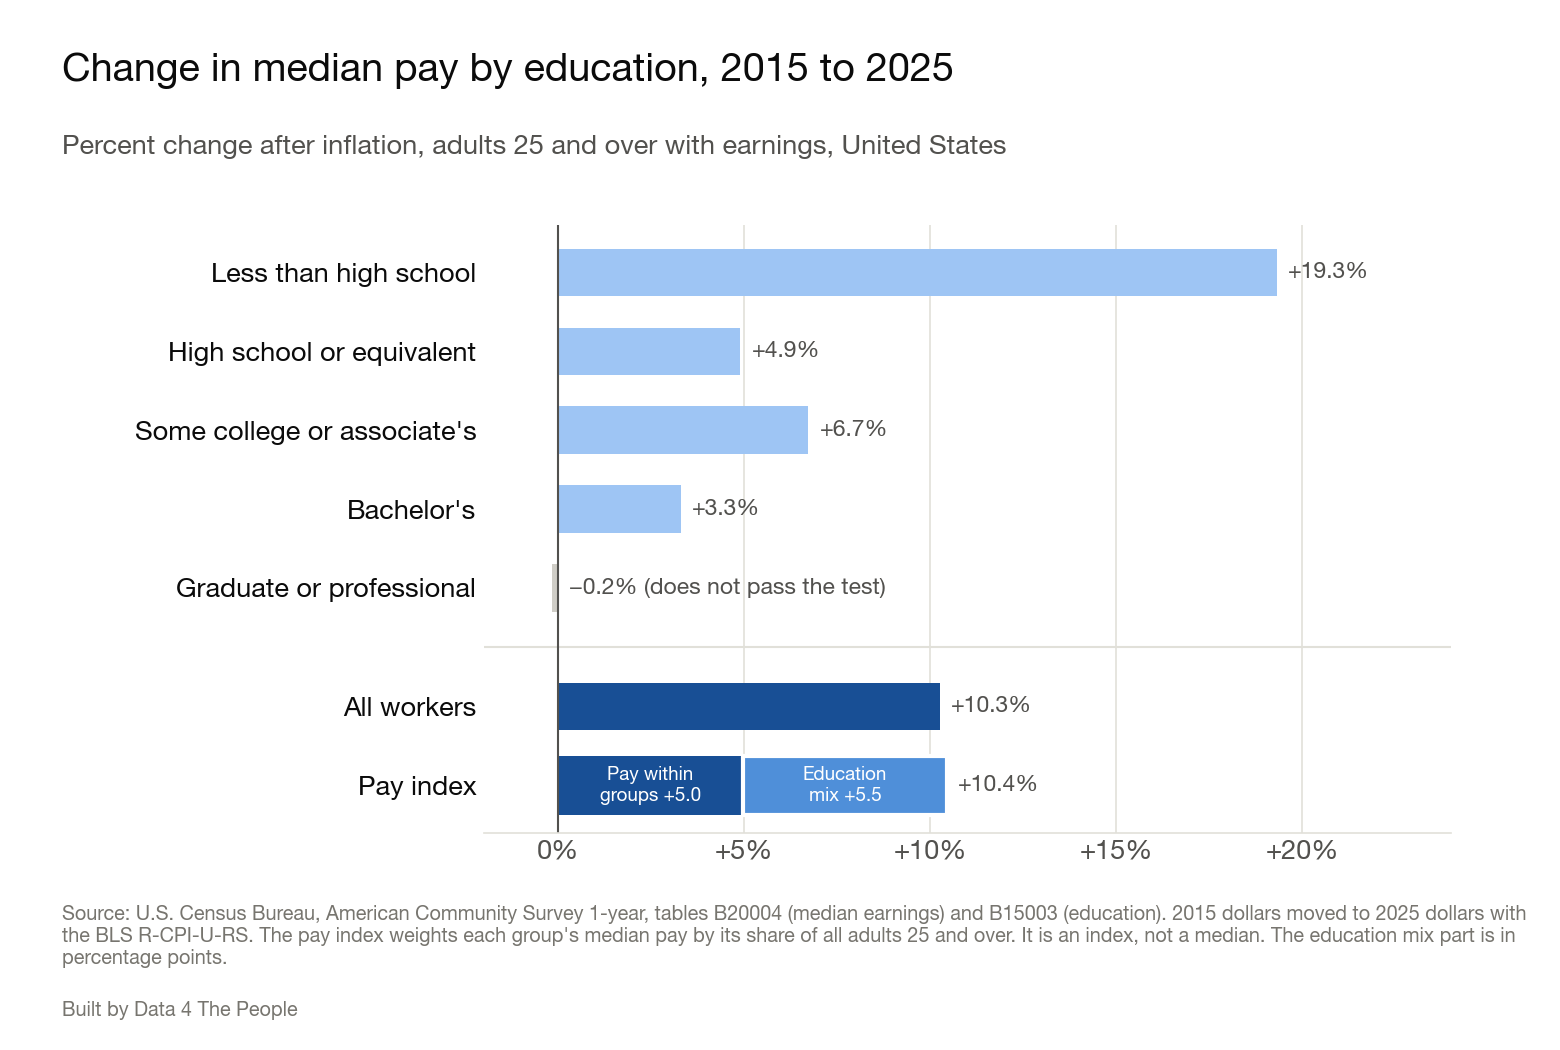
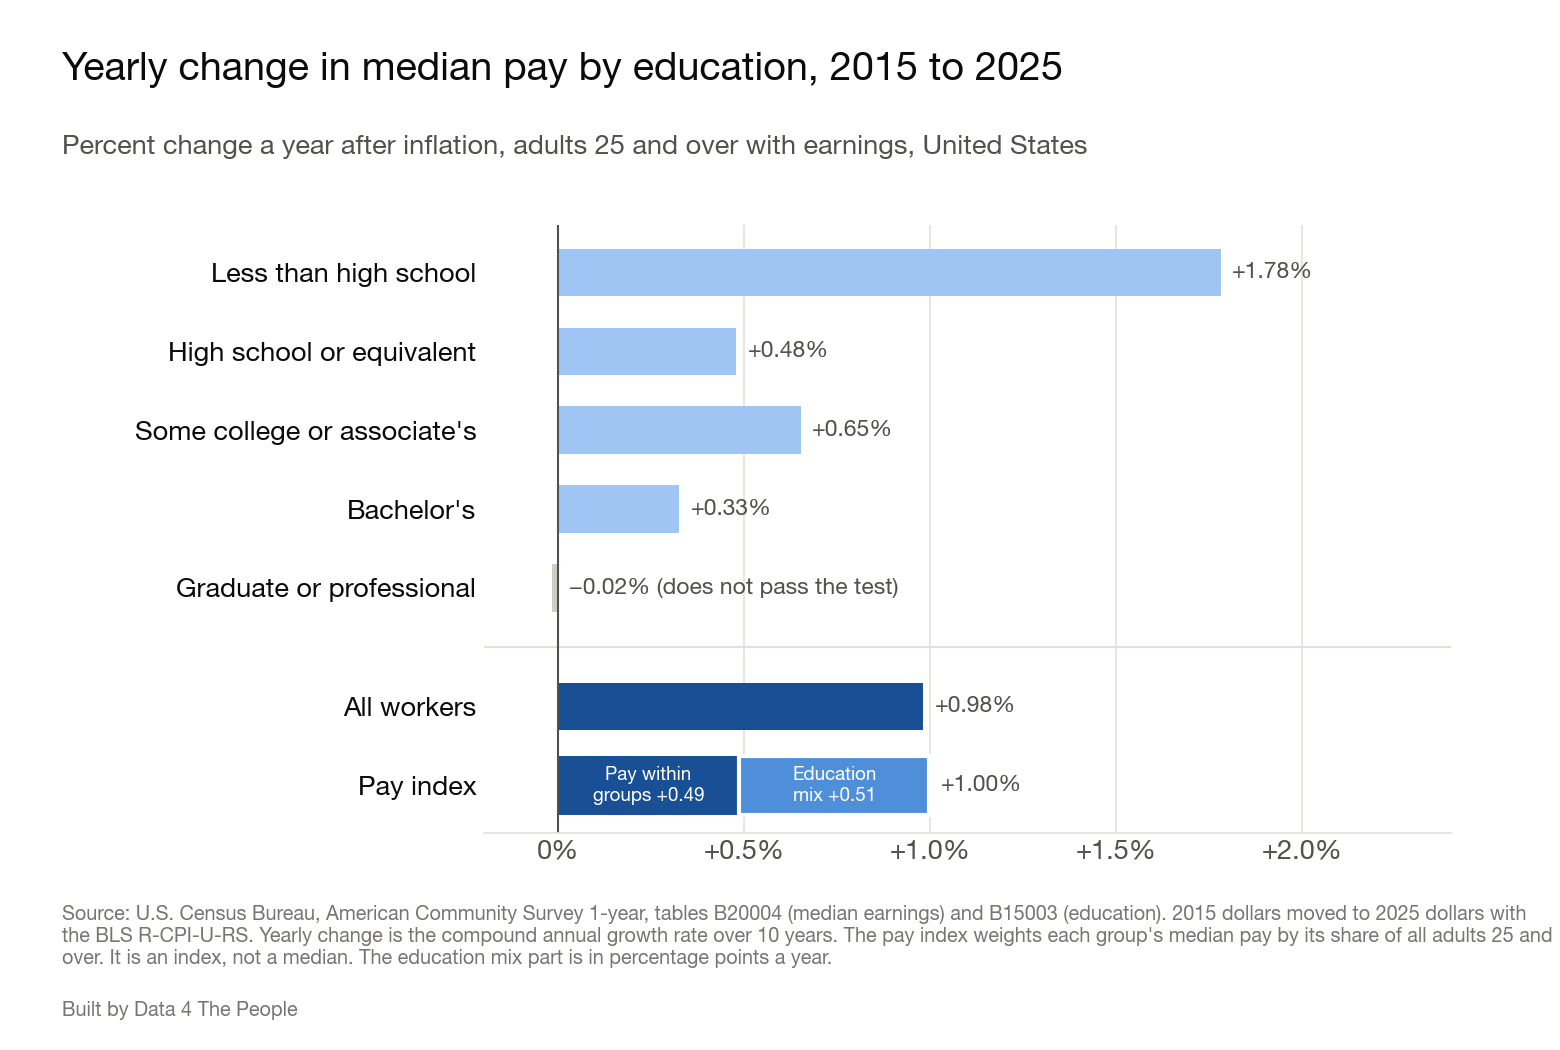
educational-attainment: national pay chart and summary in yearly growth rates

diff --git a/scripts/post_charts.py b/scripts/post_charts.py
@@ -118,28 +118,36 @@ def pay_chart(data, first, last):
     e2 = data["usPay"][last]
     w1, w2 = data["us"][first], data["us"][last]
 
+    n_yrs = int(last) - int(first)
+
+    def cagr(a, b):
+        return 100 * ((b / a) ** (1 / n_yrs) - 1)
+
     def pct(i):
         a, b, ma, mb = e1[2 * i], e2[2 * i], e1[2 * i + 1], e2[2 * i + 1]
-        return 100 * (b / a - 1), abs(b - a) / np.sqrt((ma / Z90) ** 2 + (mb / Z90) ** 2) > Z90
+        return cagr(a, b), abs(b - a) / np.sqrt((ma / Z90) ** 2 + (mb / Z90) ** 2) > Z90
 
     def index(e, w):
         return sum(w[2 + 2 * i] / w[0] * e[2 + 2 * i] for i in range(len(GROUPS)))
 
+    # Same split as the map: own-mix yearly change = held-mix yearly change + mix part (points).
     h1, h2, o2 = index(e1, w1), index(e2, w1), index(e2, w2)
-    within, mix = 100 * (h2 / h1 - 1), 100 * (o2 - h2) / h1
+    within, total = cagr(h1, h2), cagr(h1, o2)
+    mix = total - within
     groups = [(GROUP_NAMES[g], *pct(i + 1)) for i, g in enumerate(GROUPS)]
     allw = pct(0)
-    OUT.extend(["", f"## Nation, pay {first} to {last}, total change after inflation ({last} dollars)", "",
-                f"Prices up {100 * (f - 1):.1f}%.", "", "| measure | change (%) | passes |", "|---|---|---|"])
+    OUT.extend(["", f"## Nation, pay {first} to {last}, yearly change after inflation ({last} dollars)", "",
+                f"Prices up {100 * (f - 1):.1f}%. Yearly change is the compound annual growth rate over {n_yrs} years.", "",
+                "| measure | yearly change (%) | passes |", "|---|---|---|"])
     OUT.extend(f"| Median, {n} | {v:+.2f} | {s} |" for n, v, s in groups)
     OUT.extend([f"| Median, all workers | {allw[0]:+.2f} | {allw[1]} |",
-                f"| Pay index, total ({first} index ${h1:,.0f}, {last} ${o2:,.0f}) | {100 * (o2 / h1 - 1):+.2f} | |",
+                f"| Pay index, total ({first} index ${h1:,.0f}, {last} ${o2:,.0f}) | {total:+.2f} | |",
                 f"| From pay within education groups ({last} index with {first} mix ${h2:,.0f}) | {within:+.2f} | |",
-                f"| From the education mix (points) | {mix:+.2f} | |"])
+                f"| From the education mix (points a year) | {mix:+.2f} | |"])
 
     h = 7.0
-    fig, ax = frame(f"Change in median pay by education, {first} to {last}",
-                    "Percent change after inflation, adults 25 and over with earnings, United States", h)
+    fig, ax = frame(f"Yearly change in median pay by education, {first} to {last}",
+                    "Percent change a year after inflation, adults 25 and over with earnings, United States", h)
     ax.set_position([0.31, 1.45 / h, 0.62, 1 - 2.95 / h])
     labels = [n for n, _, _ in groups] + ["All workers", "Pay index"]
     n = len(labels)
@@ -147,29 +155,29 @@ def pay_chart(data, first, last):
     ys = [y + (0 if i < len(groups) else -0.5) for i, y in enumerate(ys)]
 
     def lab(y, x, text):
-        ax.text(x + 0.3 if x >= 0 else 0.3, y, text, ha="left", va="center", fontsize=11, color=INK2)
+        ax.text(x + 0.03 if x >= 0 else 0.03, y, text, ha="left", va="center", fontsize=11, color=INK2)
 
     for (name, v, s), y in zip(groups, ys):
         ax.barh(y, v, height=0.6, color=C2016 if s else NOPASS, zorder=2)
-        lab(y, v, f"{v:+.1f}%".replace("-", "−") + ("" if s else " (does not pass the test)"))
+        lab(y, v, f"{v:+.2f}%".replace("-", "\u2212") + ("" if s else " (does not pass the test)"))
     ax.barh(ys[-2], allw[0], height=0.6, color=C2025, zorder=2)
-    lab(ys[-2], allw[0], f"{allw[0]:+.1f}%")
+    lab(ys[-2], allw[0], f"{allw[0]:+.2f}%")
     ax.barh(ys[-1], within, height=0.75, color=C2025, zorder=2)
     ax.barh(ys[-1], mix, left=within, height=0.75, color="#4f8fd9", zorder=2, edgecolor="white", linewidth=2)
-    lab(ys[-1], within + mix, f"{within + mix:+.1f}%")
-    ax.text(within / 2, ys[-1], f"Pay within\ngroups {within:+.1f}", ha="center", va="center", fontsize=9, color="white")
-    ax.text(within + mix / 2, ys[-1], f"Education\nmix {mix:+.1f}", ha="center", va="center", fontsize=9, color="white")
+    lab(ys[-1], total, f"{total:+.2f}%")
+    ax.text(within / 2, ys[-1], f"Pay within\ngroups {within:+.2f}", ha="center", va="center", fontsize=9, color="white")
+    ax.text(within + mix / 2, ys[-1], f"Education\nmix {mix:+.2f}", ha="center", va="center", fontsize=9, color="white")
     ax.axhline((ys[len(groups) - 1] + ys[-2]) / 2, color=GRID, lw=1)
     ax.axvline(0, color=INK2, lw=1)
     ax.set_yticks(ys)
     ax.set_yticklabels(labels)
-    ax.set_xlim(-2, 24)
+    ax.set_xlim(-0.2, 2.4)
     ax.set_ylim(min(ys) - 0.6, max(ys) + 0.6)
-    ax.xaxis.set_major_formatter(matplotlib.ticker.FuncFormatter(lambda v, _: f"{v:+.0f}%".replace("-", "−") if v else "0%"))
+    ax.xaxis.set_major_formatter(matplotlib.ticker.FuncFormatter(lambda v, _: f"{v:+.1f}%".replace("-", "\u2212") if v else "0%"))
     footer(fig, f"Source: U.S. Census Bureau, American Community Survey 1-year, tables B20004 (median earnings) and B15003 "
-           f"(education). {first} dollars moved to {last} dollars with the BLS R-CPI-U-RS. The pay index weights each "
-           f"group's median pay by its share of all adults 25 and over. It is an index, not a median. The education mix "
-           f"part is in percentage points.", h)
+           f"(education). {first} dollars moved to {last} dollars with the BLS R-CPI-U-RS. Yearly change is the compound "
+           f"annual growth rate over {n_yrs} years. The pay index weights each group's median pay by its share of all "
+           f"adults 25 and over. It is an index, not a median. The education mix part is in percentage points a year.", h)
     fig.savefig(IMG / "02-pay-mix-nation.png", facecolor="white")
     plt.close(fig)
 

diff --git a/posts/educational-attainment/POST.md b/posts/educational-attainment/POST.md
@@ -58,11 +58,11 @@ I offer this illustration to help understand the problem with pay analysis over 
 
 And so, I added this to the visualization. Just switch the topic from Education to Pay and you can see how much of the increase in pay comes from higher pay within each education group and how much comes from the change in education mix. The following chart shows the summary of this pay and mix analysis for the nation.
 
-![Bar chart of the change in median pay after inflation from 2015 to 2025 for U.S. workers 25 and over. Less than high school rose 19.3%, high school or equivalent 4.9%, some college or associate's 6.7%, bachelor's 3.3%, and graduate or professional fell 0.2%, a change too small to pass the test. All workers rose 10.3%. The pay index rose 10.4%: 5.0 points from pay within education groups and 5.5 points from the education mix.](images/02-pay-mix-nation.png)
-*Pay is median earnings of people 25 and over who had earnings, in 2025 dollars. The pay index weights each group's median pay by that group's share of all adults 25 and over.*
+![Bar chart of the yearly change in median pay after inflation from 2015 to 2025 for U.S. workers 25 and over. Less than high school rose 1.78% a year, high school or equivalent 0.48%, some college or associate's 0.65%, bachelor's 0.33%, and graduate or professional fell 0.02%, a change too small to pass the test. All workers rose 0.98% a year. The pay index rose 1.00% a year: 0.49 points from pay within education groups and 0.51 points from the education mix.](images/02-pay-mix-nation.png)
+*Pay is median earnings of people 25 and over who had earnings, in 2025 dollars. Yearly change is the average yearly growth rate over the 10 years, with compounding. The pay index weights each group's median pay by that group's share of all adults 25 and over.*
 
-From 2015 to 2025, median pay for all U.S. workers 25 and over rose 10.3% after inflation, or about 1% a year. Pay within each education group tells a different story. Median pay rose 3.3% for workers with a bachelor's degree and was flat for workers with a graduate or professional degree (down 0.2%, a change too small to pass the Census Bureau's test). Only workers without a high school diploma saw their median pay rise faster than all workers, at 19.3%.
+From 2015 to 2025, median pay for all U.S. workers 25 and over rose 0.98% a year after inflation. Pay within each education group tells a different story. Median pay rose 0.33% a year for workers with a bachelor's degree and was flat for workers with a graduate or professional degree (down 0.02% a year, a change too small to pass the Census Bureau's test). Only workers without a high school diploma saw their median pay rise faster than all workers, at 1.78% a year.
 
 Over the same years, the education mix shifted. The share of adults 25 and over with a bachelor's degree or more rose from 30.6% to 37.4%. The share without a high school diploma fell from 12.9% to 9.4%. More adults are now in the groups with higher pay.
 
-The pay index in the map splits the change in pay into two parts. It weights each group's median pay by that group's share of adults 25 and over. From 2015 to 2025 the index rose 10.4%, close to the 10.3% rise in median pay. With the education mix held at 2015 shares, the index would have risen 5.0%. The other 5.5 points are pay index growth from the change in education mix. In other words, about half of the rise in the pay index lines up with higher pay within education groups, and about half lines up with the shift toward more education.
+The pay index in the map splits the change in pay into two parts. It weights each group's median pay by that group's share of adults 25 and over. From 2015 to 2025 the index rose 1.00% a year, close to the 0.98% yearly rise in median pay. With the education mix held at 2015 shares, the index would have risen 0.49% a year. The other 0.51 points a year are pay index growth from the change in education mix. In other words, about half of the rise in the pay index lines up with higher pay within education groups, and about half lines up with the shift toward more education.

diff --git a/data/clean/post_chart_tables.md b/data/clean/post_chart_tables.md
@@ -11,18 +11,18 @@
 | Bachelor's degree or more | +6.75 | 391 | 305 | 78.0 | 0 | 378 | +6.15 |
 | Graduate or professional degree | +3.43 | 391 | 251 | 64.2 | 0 | 367 | +2.82 |
 
-## Nation, pay 2015 to 2025, total change after inflation (2025 dollars)
+## Nation, pay 2015 to 2025, yearly change after inflation (2025 dollars)
 
-Prices up 36.3%.
+Prices up 36.3%. Yearly change is the compound annual growth rate over 10 years.
 
-| measure | change (%) | passes |
+| measure | yearly change (%) | passes |
 |---|---|---|
-| Median, Less than high school | +19.32 | True |
-| Median, High school or equivalent | +4.90 | True |
-| Median, Some college or associate's | +6.73 | True |
-| Median, Bachelor's | +3.31 | True |
-| Median, Graduate or professional | -0.16 | False |
-| Median, all workers | +10.26 | True |
-| Pay index, total (2015 index $52,033, 2025 $57,469) | +10.45 | |
-| From pay within education groups (2025 index with 2015 mix $54,622) | +4.98 | |
-| From the education mix (points) | +5.47 | |
+| Median, Less than high school | +1.78 | True |
+| Median, High school or equivalent | +0.48 | True |
+| Median, Some college or associate's | +0.65 | True |
+| Median, Bachelor's | +0.33 | True |
+| Median, Graduate or professional | -0.02 | False |
+| Median, all workers | +0.98 | True |
+| Pay index, total (2015 index $52,033, 2025 $57,469) | +1.00 | |
+| From pay within education groups (2025 index with 2015 mix $54,622) | +0.49 | |
+| From the education mix (points a year) | +0.51 | |
